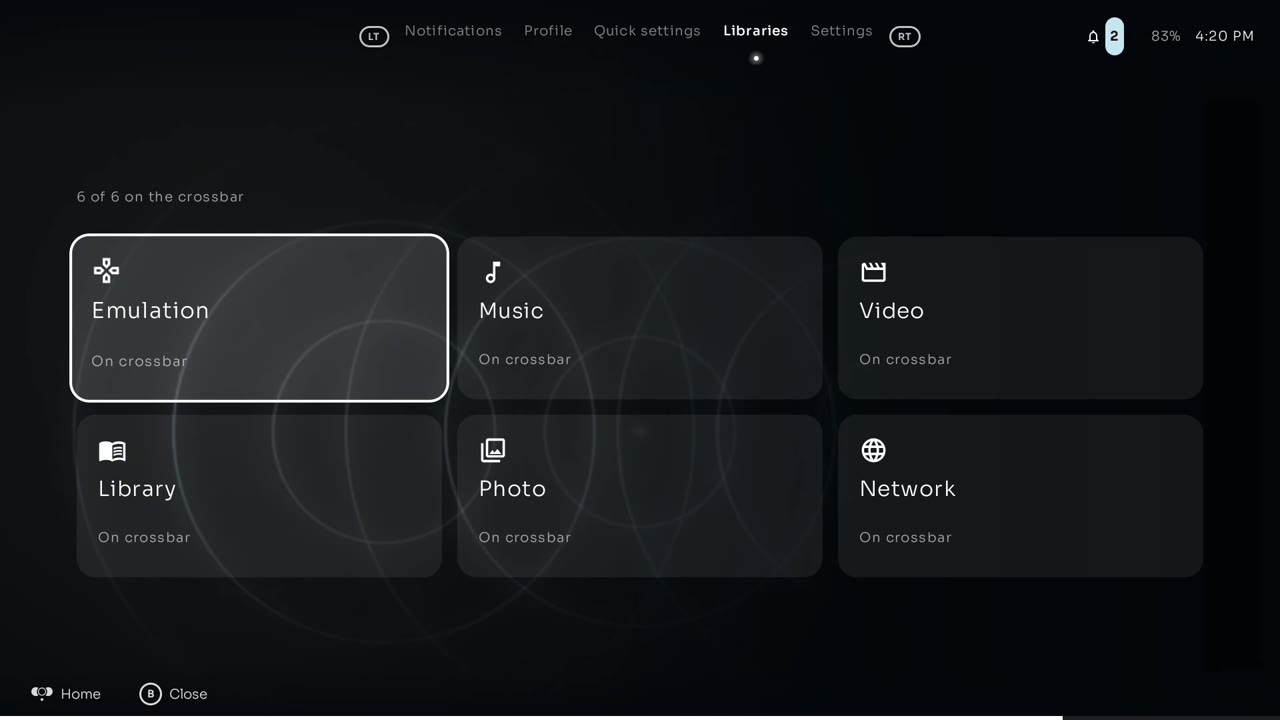
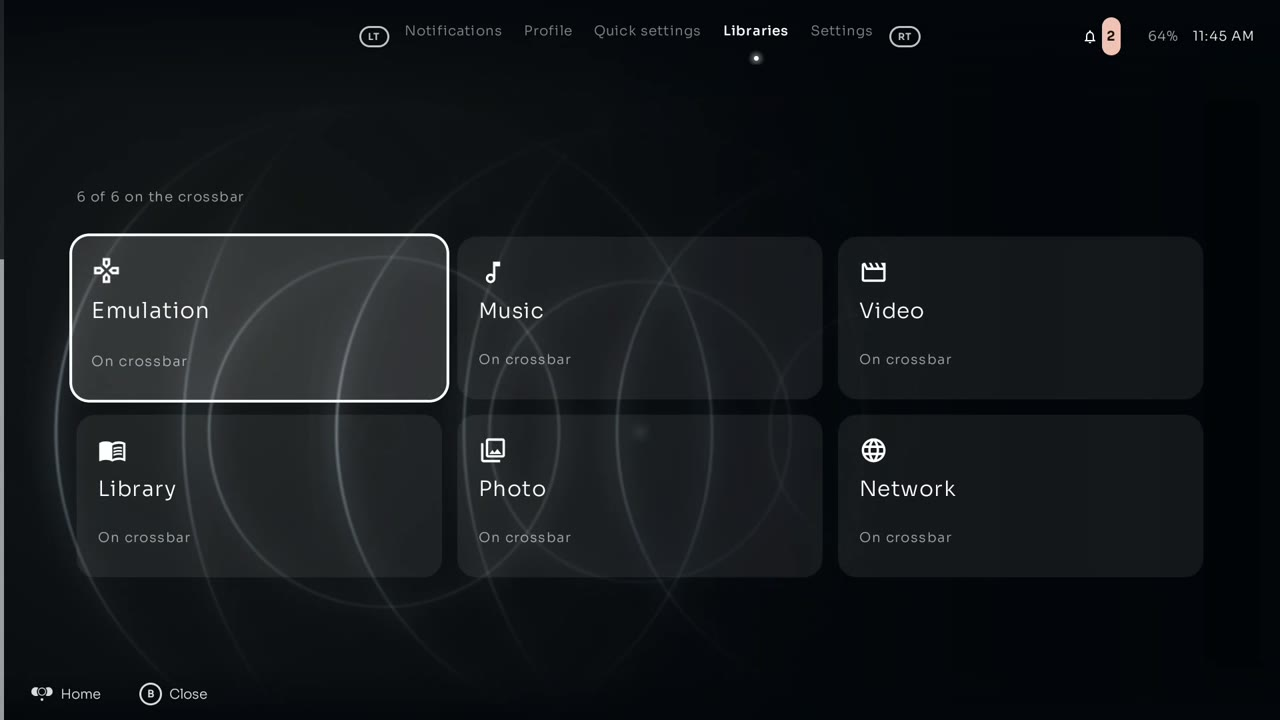
docs: new screenshots, and the README for setup, Launch Disc Style and B
Twelve screenshots retaken on the Konker and a new Settings > Library shot. The
README covers the new setup step (and its guide list now matches the five real
steps), Launch Disc Style, and B hiding the keyboard.

Verify: docs only; every image the README names exists in docs/screenshots.

diff --git a/README.md b/README.md
@@ -140,20 +140,23 @@ Look & Feel, Accounts, System, Setup**.
 | Quick settings | Libraries: which columns are on the crossbar |
 | <img src="docs/screenshots/settings-home.jpg" width="420"> | <img src="docs/screenshots/settings-overview.jpg" width="420"> |
 | Settings | Overview: your library at a glance |
-| <img src="docs/screenshots/settings-emulators.jpg" width="420"> | <img src="docs/screenshots/settings-look-and-feel.jpg" width="420"> |
-| Emulators: the Library Manager | Look & Feel |
-| <img src="docs/screenshots/theme-color-scheme.jpg" width="420"> | <img src="docs/screenshots/settings-system.jpg" width="420"> |
-| Colour Scheme, previewed on the live crossbar | System: About, Logs, Backup & Restore |
+| <img src="docs/screenshots/settings-library.jpg" width="420"> | <img src="docs/screenshots/settings-emulators.jpg" width="420"> |
+| Library: media folders and hidden items | Emulators: the Library Manager |
+| <img src="docs/screenshots/settings-look-and-feel.jpg" width="420"> | <img src="docs/screenshots/theme-color-scheme.jpg" width="420"> |
+| Look & Feel | Colour Scheme, previewed on the live crossbar |
+| <img src="docs/screenshots/settings-system.jpg" width="420"> | |
+| System: About, Logs, Backup & Restore | |
 
 ### First run
 
-The setup wizard asks for every permission ECHO can use, including Music, Photos and Video, then
-your folders, emulators and accounts. Each step runs the same code as its Settings screen.
+The setup wizard first asks what ECHO is for: Gaming and Media, each on or off (both off is a
+launcher only). Then it asks for the permissions ECHO can use, your folders, emulators and
+accounts, leaving out what you turned off. Each step runs the same code as its Settings screen.
 
 | | |
 |:---:|:---:|
 | <img src="docs/screenshots/setup-wizard-welcome.jpg" width="420"> | <img src="docs/screenshots/setup-wizard-permissions.jpg" width="420"> |
-| Welcome | Step 1, permissions |
+| Welcome | Permissions |
 
 ### The ECHO folder
 
@@ -282,18 +285,19 @@ recommended, and touch works throughout.
 A fresh install opens the **setup wizard**. Every step is optional and sets the same thing as the
 matching Settings screen. Run it again any time from **Settings ▸ Setup ▸ Setup Wizard**.
 
-1. **Welcome**
-2. **Permissions**: each one turns something on; none is required.
-3. **ROM folders**: grant a root folder with one subfolder per console (`gba`, `snes`, `psx`, …,
-   the ES-DE names). Adding it here scans it straight away and creates a Memory Card for every
-   console that has games, including a **Windows** card for PC games.
-4. **Music, Video, Photo and Books** folders
-5. **Artwork** folder, with an offer to import what is already there
-6. **Artwork sources**: SteamGridDB, TMDB, IGDB and a ScreenScraper account, each optional.
-   ScreenScraper's developer credentials are built in.
-7. **Vita data folder** and **RetroArch**, shown only when those apps are installed
-8. **Personalize**: shortcuts into the real theme, sound, boot and layout screens
-9. **Finish**
+1. **What ECHO is for**: **Gaming** and **Media**, each on or off. Both on is the full suite; both
+   off is a launcher only. What is off is left out of the steps below and hidden from the crossbar;
+   *Home ▸ Libraries* brings a column back.
+2. **Permissions**: each one turns something on; none is required. With Media off, the Music,
+   Photos and Video permissions are not asked for.
+3. **Your folders**: the **Games** folder, one subfolder per console (`gba`, `snes`, `psx`, …, the
+   ES-DE names); adding it scans it straight away and creates a Memory Card for every console that
+   has games, including a **Windows** card for PC games. Then the **Music, Video, Photos and Books**
+   folders, and the **ECHO folder** for artwork and the look.
+4. **Emulators**: **RetroArch** and the **Vita3K data folder**, shown only when Gaming is on and
+   those apps are installed.
+5. **Accounts**: accounts, Discord, and the artwork sources (SteamGridDB, TMDB, IGDB and a
+   ScreenScraper account, each optional). Then **Finish**.
 
 ### Permissions
 
@@ -330,6 +334,7 @@ access to all of your storage.
 - **D-pad ◀ backs out** of a folder, flyout or settings page wherever LEFT is not already doing
   something. Turn it off with *Look & Feel ▸ Controller ▸ Left Backs Out*.
 - *Look & Feel ▸ Controller* swaps A/B and X/Y.
+- **B with the on-screen keyboard up hides the keyboard**; the next B goes back.
 
 ---
 
@@ -483,9 +488,9 @@ Each column also lists its apps. Add more with its **Add** row.
   separately for each screen size. **Customize Crossbar Icons** replaces any of the 42 theme glyphs
   or a console's icon, live.
 - **Boot**: the boot sequence (a line of light that becomes the ECHO mark, about 3.5 seconds; A or B
-  skips it), your own boot video, the launch disc, and GameBoot. GameBoot Style picks the disc or
-  **Lens**, where the game's art spins inside the ECHO ring and opens over the screen; or use your
-  own video.
+  skips it), your own boot video, the launch disc, and GameBoot. GameBoot Style and Launch Disc
+  Style each pick the disc or **Lens**, where the art spins inside the ECHO ring and opens over the
+  screen; GameBoot can also use your own video.
 - **Sound**: add any interface sound and set looping **Menu Music**. ECHO ships with no sounds;
   the interface is silent until you add some.
 - **Categories, Controller, Touch, Performance**.
